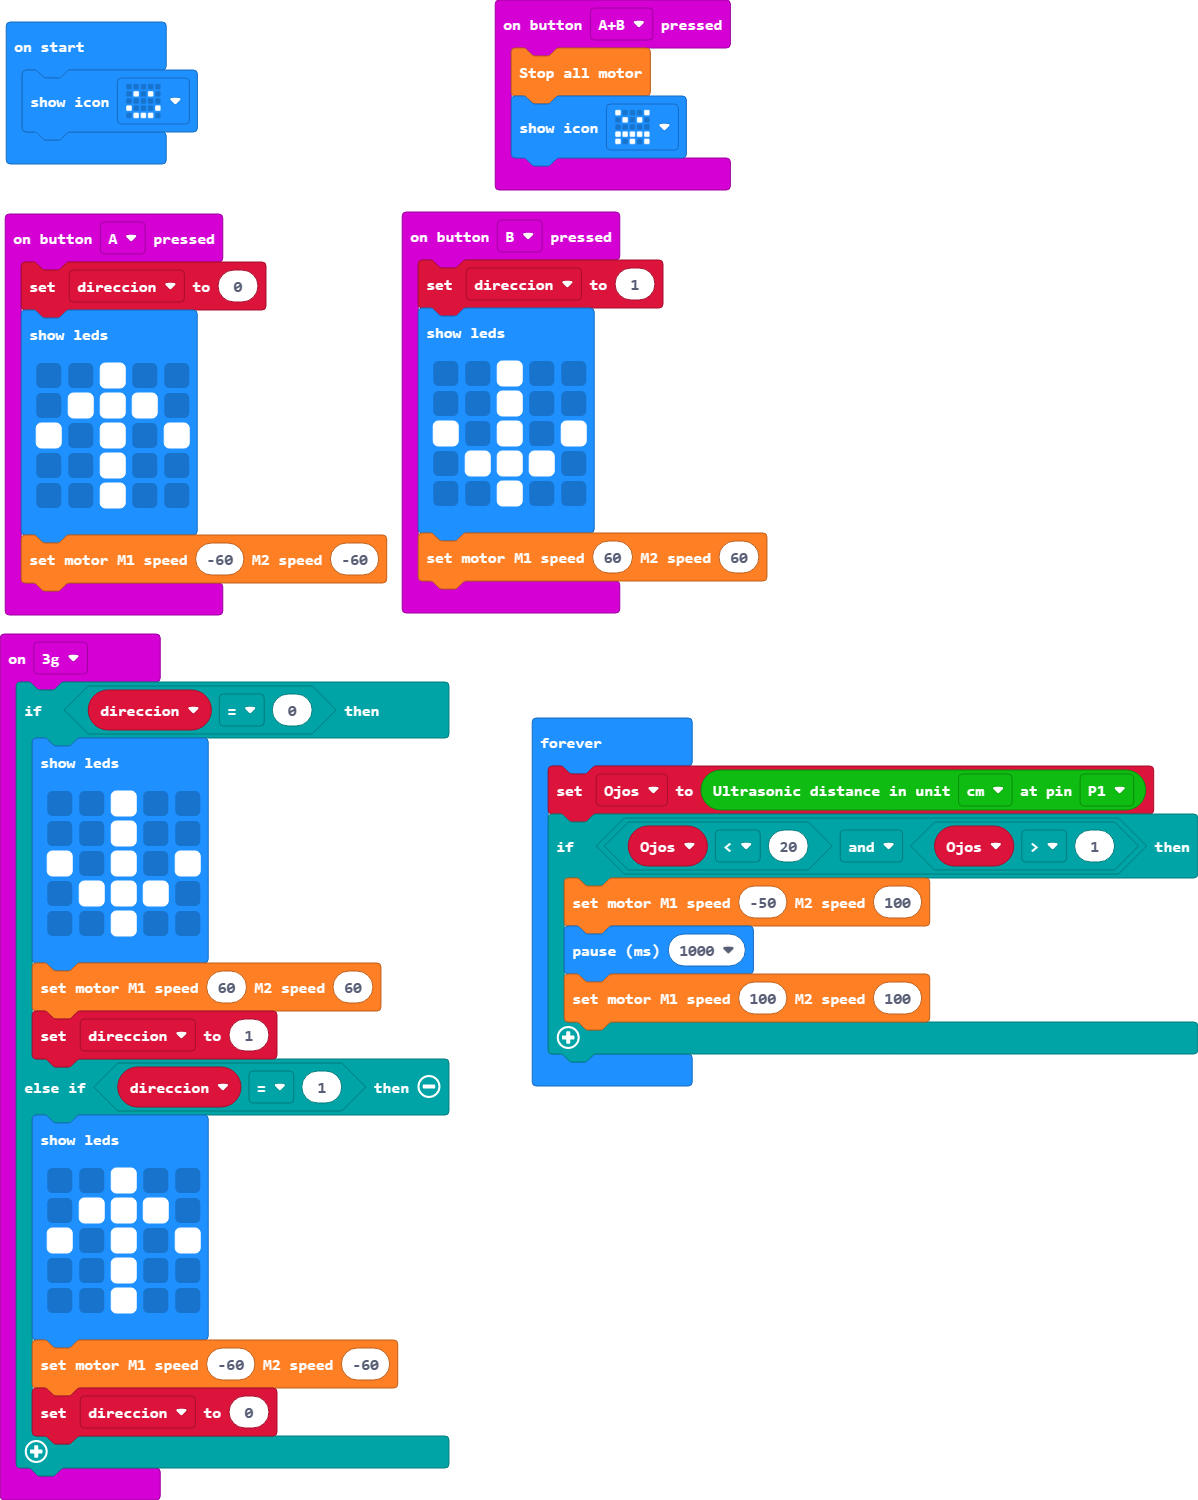
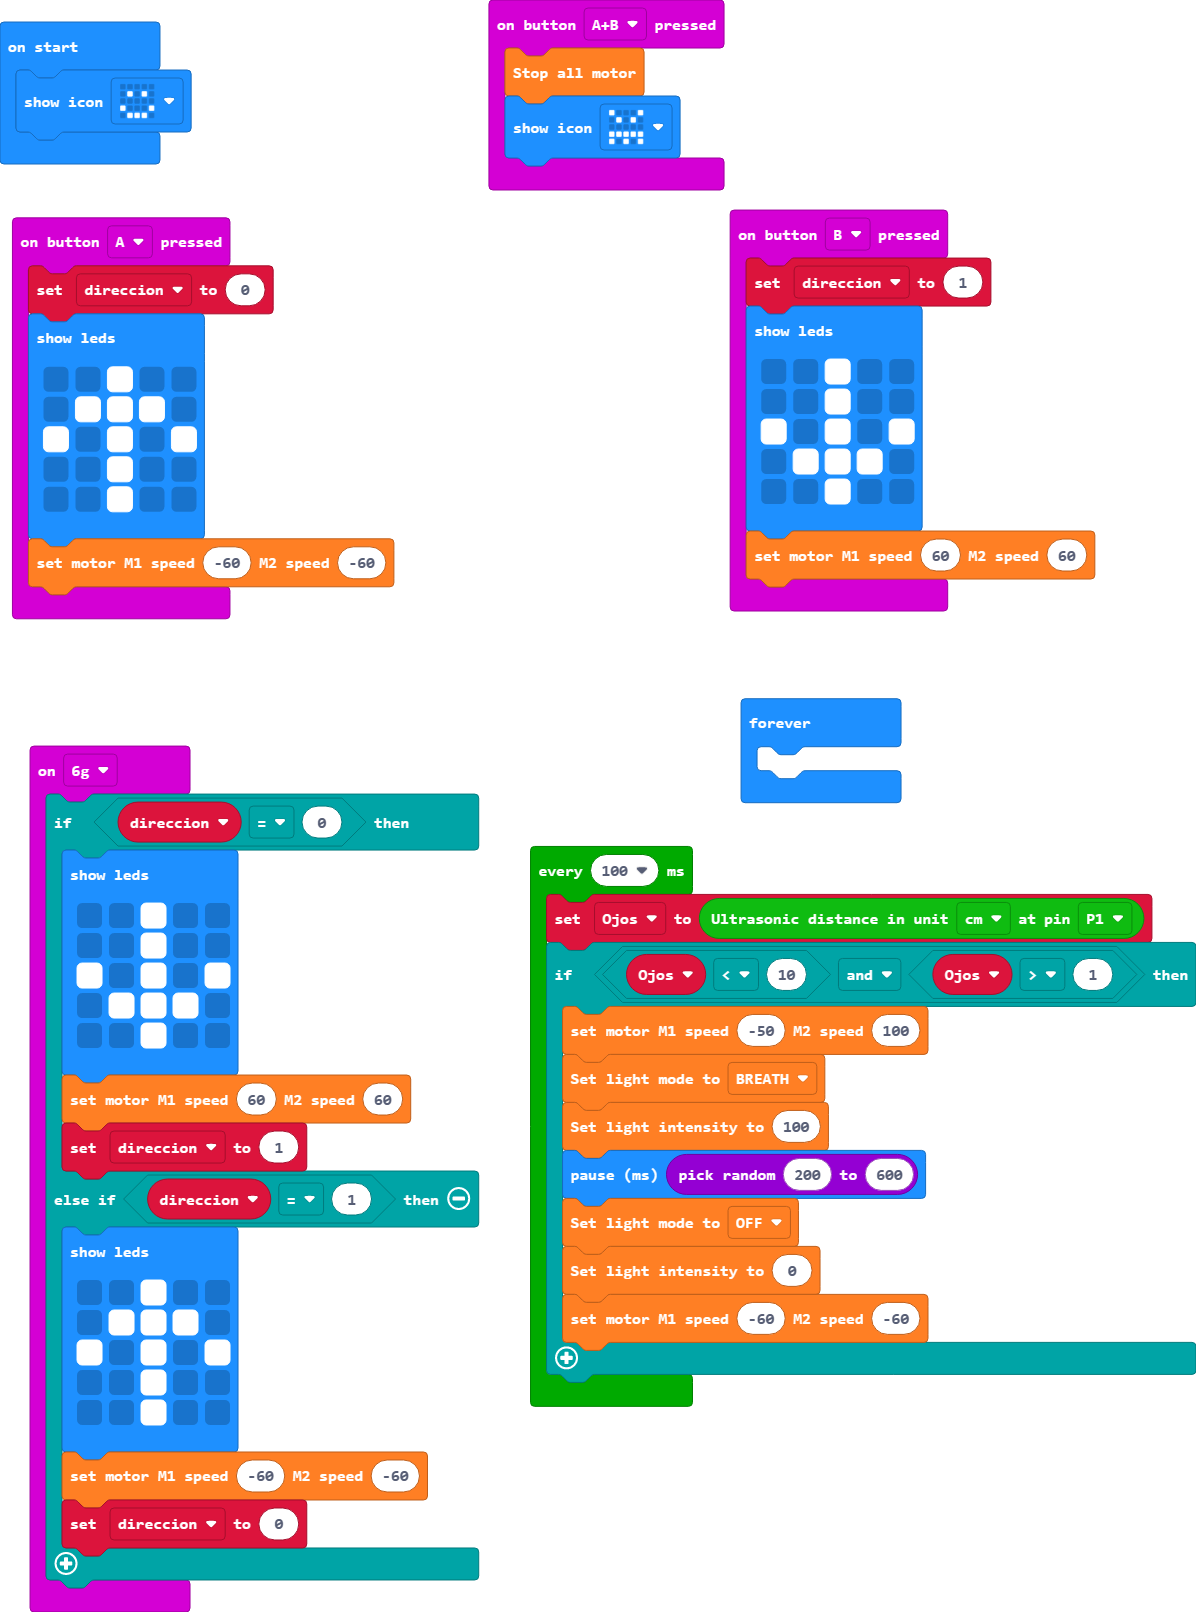
varios cambios de funcionamiento

diff --git a/main.ts b/main.ts
@@ -9,22 +9,7 @@ input.onButtonPressed(Button.A, function () {
         `)
     wuKong.setAllMotor(-60, -60)
 })
-input.onButtonPressed(Button.AB, function () {
-    wuKong.stopAllMotor()
-    basic.showIcon(IconNames.Angry)
-})
-input.onButtonPressed(Button.B, function () {
-    direccion = 1
-    basic.showLeds(`
-        . . # . .
-        . . # . .
-        # . # . #
-        . # # # .
-        . . # . .
-        `)
-    wuKong.setAllMotor(60, 60)
-})
-input.onGesture(Gesture.ThreeG, function () {
+input.onGesture(Gesture.SixG, function () {
     if (direccion == 0) {
         basic.showLeds(`
             . . # . .
@@ -47,14 +32,36 @@ input.onGesture(Gesture.ThreeG, function () {
         direccion = 0
     }
 })
+input.onButtonPressed(Button.AB, function () {
+    wuKong.stopAllMotor()
+    basic.showIcon(IconNames.Angry)
+})
+input.onButtonPressed(Button.B, function () {
+    direccion = 1
+    basic.showLeds(`
+        . . # . .
+        . . # . .
+        # . # . #
+        . # # # .
+        . . # . .
+        `)
+    wuKong.setAllMotor(60, 60)
+})
 let Ojos = 0
 let direccion = 0
 basic.showIcon(IconNames.Happy)
 basic.forever(function () {
+	
+})
+loops.everyInterval(100, function () {
     Ojos = sonarbit.sonarbit_distance(Distance_Unit.Distance_Unit_cm, DigitalPin.P1)
-    if (Ojos < 20 && Ojos > 1) {
+    if (Ojos < 10 && Ojos > 1) {
         wuKong.setAllMotor(-50, 100)
-        basic.pause(1000)
-        wuKong.setAllMotor(100, 100)
+        wuKong.setLightMode(wuKong.LightMode.BREATH)
+        wuKong.lightIntensity(100)
+        basic.pause(randint(200, 600))
+        wuKong.setLightMode(wuKong.LightMode.OFF)
+        wuKong.lightIntensity(0)
+        wuKong.setAllMotor(-60, -60)
     }
 })
